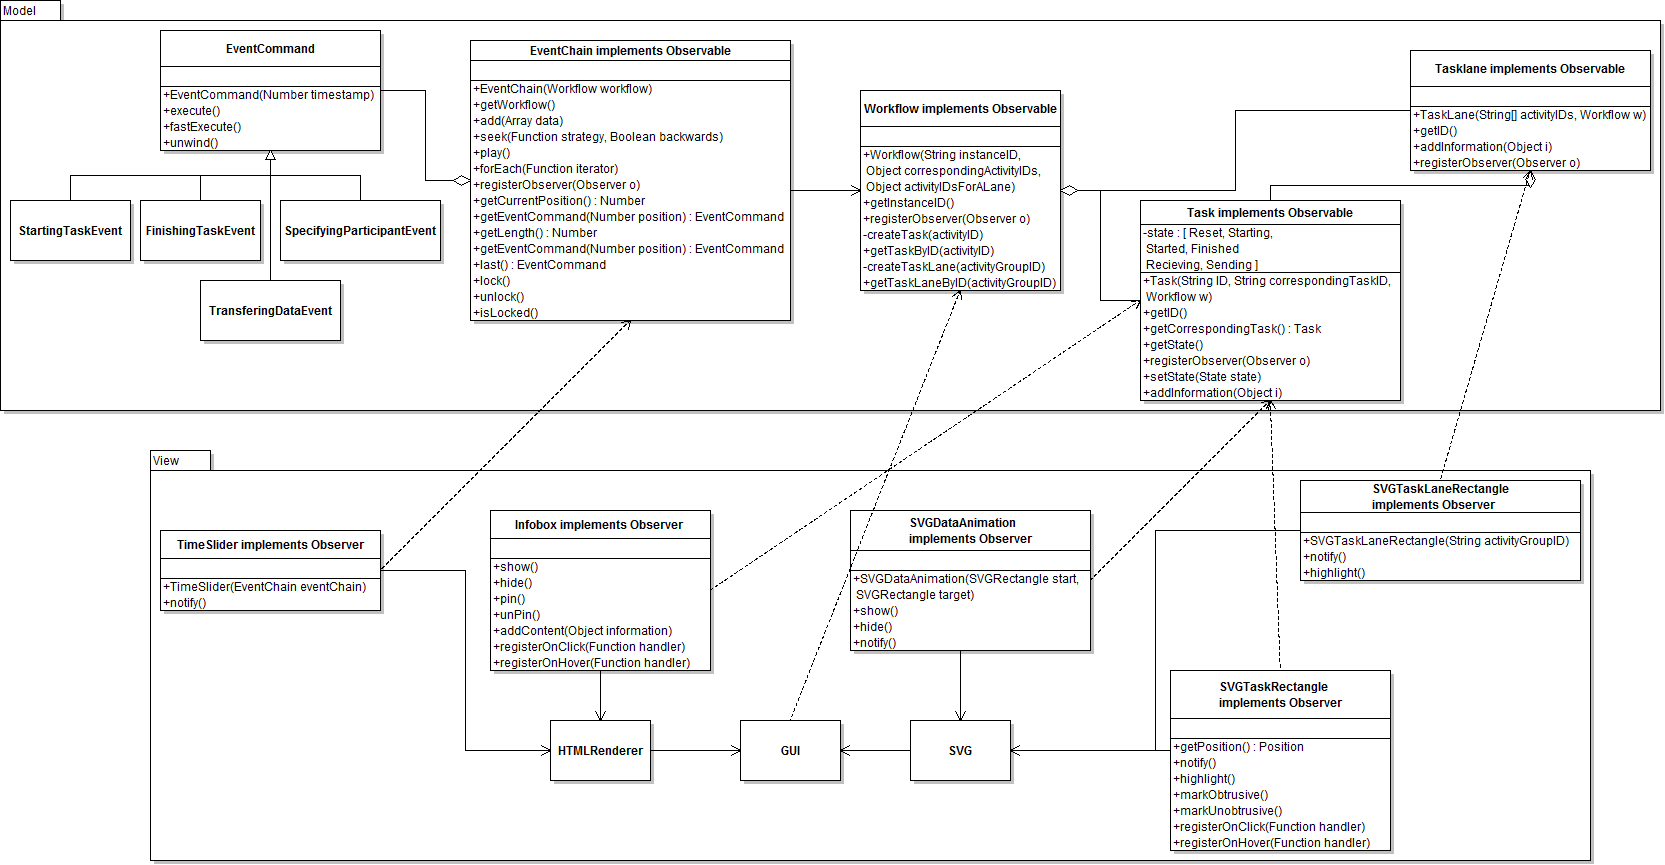
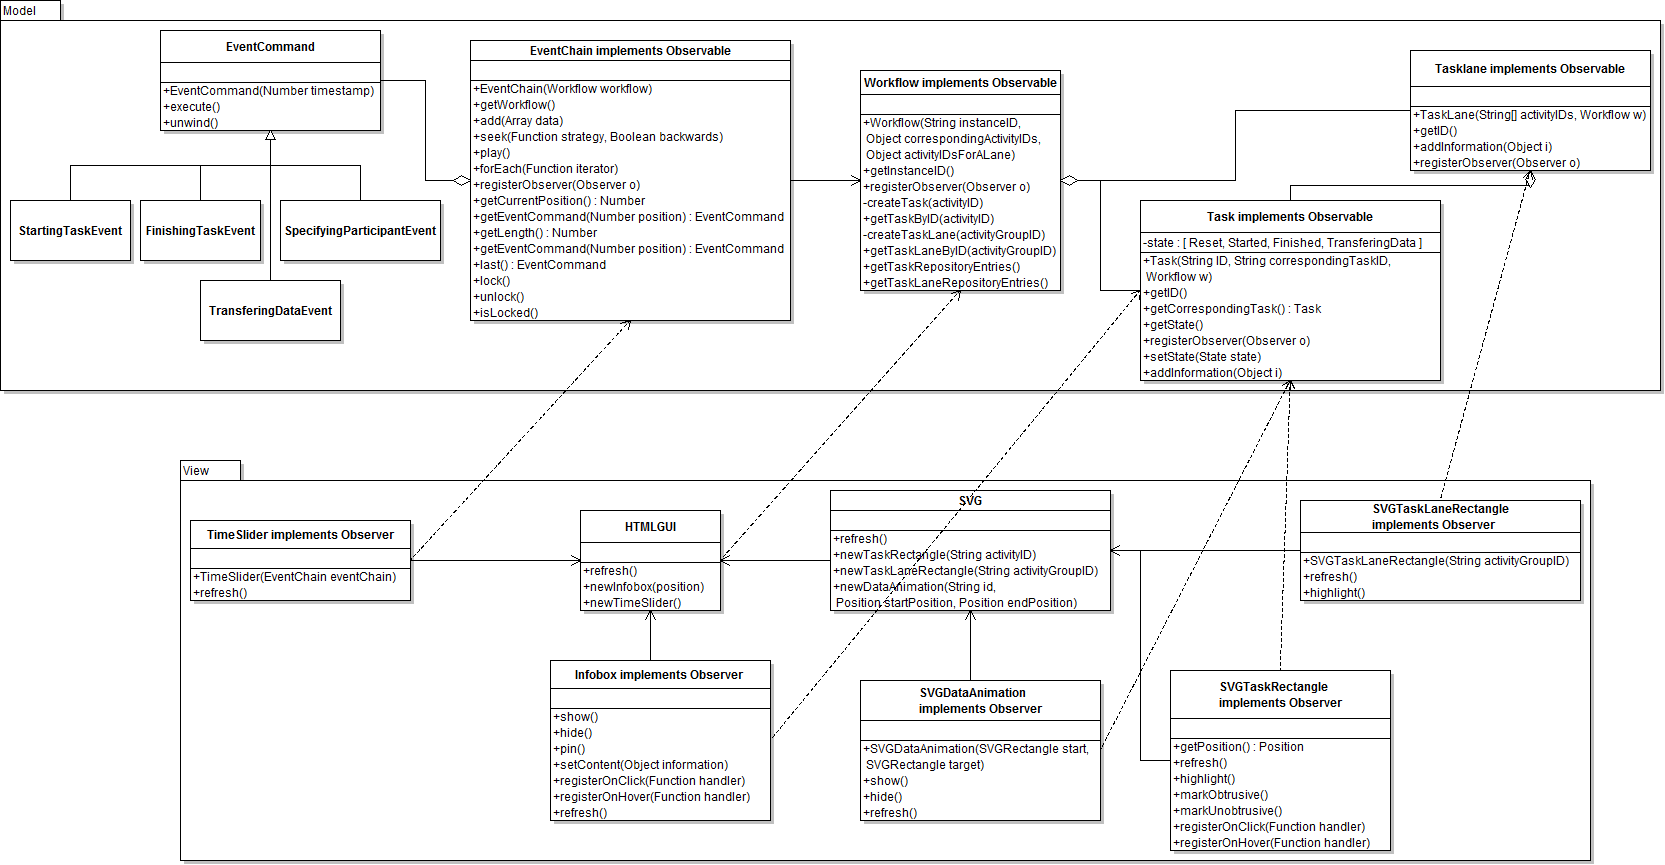
refactoring debugging: infobox working

diff --git a/Client/src/View/Infobox.js b/Client/src/View/Infobox.js
@@ -47,8 +47,11 @@ WoSec.HTMLGUI.prototype.newInfobox = function Infobox(position) {
     }
 
     var shown = false;
+    var pinned = false;
     
-    return {
+    var that = Object.create(WoSec.baseObject);
+    
+    return WoSec.extend(that, {
         /**
          * Aktualisiere-Methode des Beobachter Musters
          * @param {Task} task beobachteter Task
@@ -58,11 +61,13 @@ WoSec.HTMLGUI.prototype.newInfobox = function Infobox(position) {
         },
         /**
          * Zeigt die Informationsfläche.
+         * Versteckt sich wieder automatisch nach ein paar Sekunden
          */
         show: function() {
-            if(!shown) {
+            if(!shown && !empty) {
                 infobox.slideToggle("slow");
                 shown = true;
+                that.later(INFOBOX_HIDE_DELAY_MS, "hide");
             }
             return this;
         },
@@ -70,9 +75,23 @@ WoSec.HTMLGUI.prototype.newInfobox = function Infobox(position) {
          * Verbirgt die Informationsfläche.
          */
         hide: function() {
-            if(shown) {
+            if(shown && !pinned) {
                 infobox.slideToggle("slow");
                 shown = false;
+            }
+            return this;
+        },
+        /**
+         * Anheften - hindert die Infobox sich selbst zu lösen
+         * Zweiter Aufruf versteckt die Infobox wieder.
+         */
+        pin: function() {
+            if (pinned) {
+                pinned = false;
+                that.hide();
+            } else {
+                pinned = true;
+                that.show();
             }
             return this;
         },
@@ -82,53 +101,27 @@ WoSec.HTMLGUI.prototype.newInfobox = function Infobox(position) {
          * @return {Infobox} self
          */
         setContent: function(information) {
+            information = information[0] || {};
             if(information.participant && information.participant != "") {
                 setParticipant(information.participant);
                 empty = false;
             }
             if(information.data && information.data != "") {
                 setData(information.data);
-                databox.add(information.data);
                 empty = false;
             }
             return this;
+        },
+        /**
+         * Registriert einen Eventhandler für das OnClick-Event der Infobox
+         * @param {Function} handler zu registrierender Eventhandler
+         */
+        registerOnClick: function(handler) {
+            infobox.click(handler);
+            return this;
         }
-        /* *
-         * Bindet die Infobox an ein Rechteck im SVG.
-         * @param {SVGRectangle} rectangle Rechteck im SVG
-         * @return {Infobox} self
-         * /
-         bindToSVGRectangle: function(rectangle) {
-    
-         var showInfobox = false;
-         var inside = false;
-         var onClickHandler = function() {
-         if (!showInfobox) {
-         showInfobox = true;
-         } else {
-         infobox.slideToggle("slow");
-         showInfobox = false;
-         }
-         return false;
-         };
-         var onHoverHandler = function() {
-         if (!showInfobox && !inside && !empty) {
-         inside = true;
-         infobox.slideToggle("slow");
-         setTimeout(function() {
-         if (!showInfobox) {
-         infobox.slideToggle("slow");
-         }
-         inside = false;
-         }, INFOBOX_HIDE_DELAY_MS);
-         }
-         return false;
-         };
-    
-         infobox.click(onClickHandler);
-         return this;
-         },*/
-    };
+
+    });
 }
 
 })();

diff --git a/Client/src/AJAXUpdaterMockUp.js b/Client/src/AJAXUpdaterMockUp.js
@@ -16,10 +16,7 @@ WoSec.ajaxUpdater = (function() {
 			       "activityID": "__fX4gedbEd-f6JWMxJDGcQ",
 			       "timestamp": 1290076190,
 				   "information": {
-				   	"participant": {
-				   		"ID": "_sDfw47sd33saeF",
-				   		"name": "Alice"
-				   	}
+				   	"participant": "Alice"
 				   }
 			    },
 			    { // 3.
@@ -27,10 +24,7 @@ WoSec.ajaxUpdater = (function() {
 			       "activityID": "_ggEwYYBxEd-3VeNHLWdQXA",
 			       "timestamp": 1290076195,
 				   "information": {
-				   	"participant": {
-				   		"ID": "_sDfw47sd33saeF",
-				   		"name": "Alice"
-				   	}
+				   	"participant": "Alice"
 				   }
 			    },
 			    { // 4.
@@ -38,10 +32,7 @@ WoSec.ajaxUpdater = (function() {
 			       "activityGroupID": "_7kTKEOdbEd-f6JWMxJDGcQ",
 			       "timestamp": 1290076210,
 				   "information": {
-				   	"participant": {
-				   		"ID": "_sDfw47sd33saeF",
-				   		"name": "Alice"
-				   	}
+				   	"participant": "Alice"
 				   }
 			    },
 			    { // 5.
@@ -49,10 +40,7 @@ WoSec.ajaxUpdater = (function() {
 			       "activityGroupID": "_1UFV4ItpEd-U-Z7QjvIBEA",
 			       "timestamp": 1290076220,
 				   "information": {
-				   	"participant": {
-			           "ID": "http://provider1/",
-			           "name": "DB01"
-				   	}
+				   	"participant": "DB01"
 				   }
 			    },
 			    { // 6.

diff --git a/Client/src/View/HTMLGUI.js b/Client/src/View/HTMLGUI.js
@@ -33,7 +33,12 @@ WoSec.HTMLGUI = function HTMLGUI() {
             if(task.getCorrespondingTask()) {
                 task.registerObserver(svg.newDataAnimation(taskID, svgRectangle.getPosition().getCenter(), svg.getTaskRectangle(task.getCorrespondingTask().getID()).getPosition().getCenter()));
             }
-            task.registerObserver(this.newInfobox(svgRectangle.getPosition()));
+            var infobox = this.newInfobox(svgRectangle.getPosition())
+            task.registerObserver(infobox);
+            svgRectangle.registerOnHover(infobox.show);
+            infobox.registerOnClick(infobox.pin);
+            
+            
         }
         knownTaskIDs = taskIDs;
 
